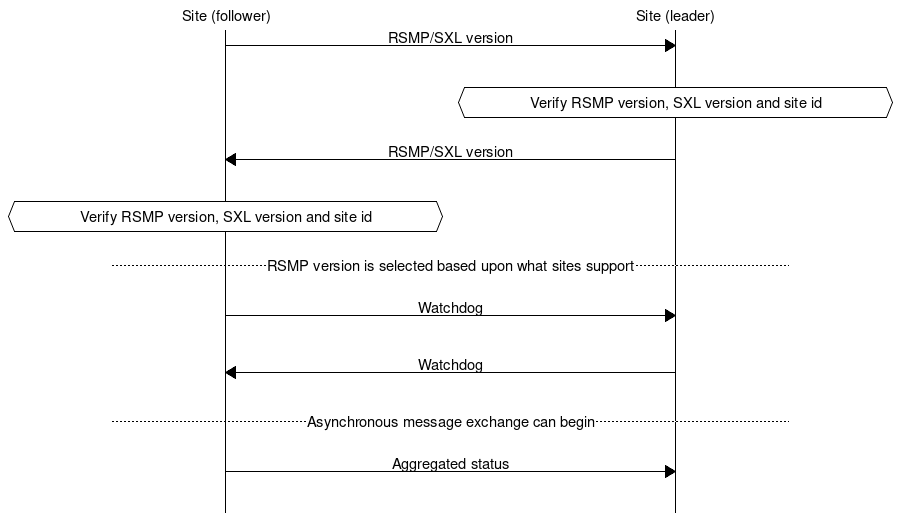
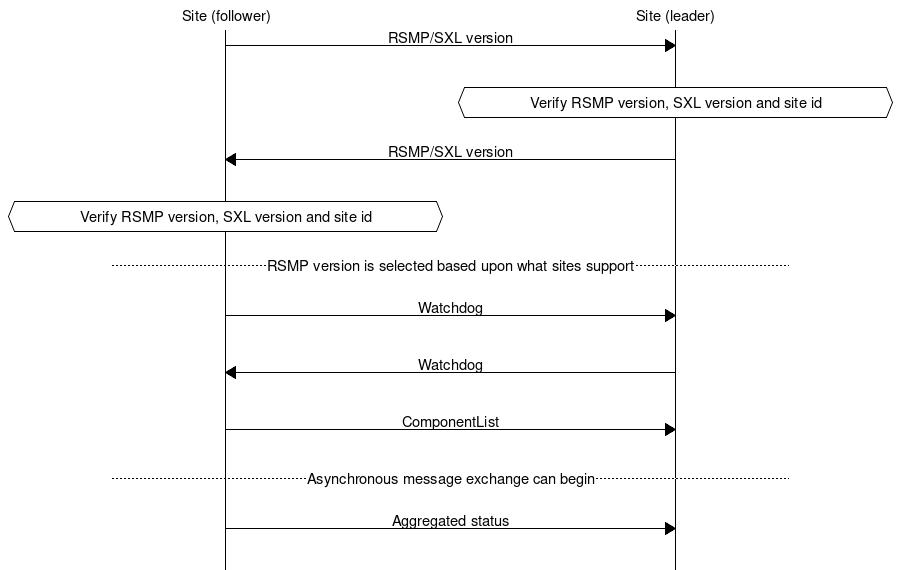
Update documentation

diff --git a/docs/3.3.0/applicability/transport_of_data.html b/docs/3.3.0/applicability/transport_of_data.html
@@ -296,6 +296,7 @@ RSMP/SXL Version is implicitly selected and used in any further RSMP
 communication.</p></li>
 <li><p>The follower site sends Watchdog (according to section <a class="reference internal" href="basic_structure.html#watchdog"><span class="std std-ref">Watchdog</span></a>)</p></li>
 <li><p>The leader site sends Watchdog (according to section <a class="reference internal" href="basic_structure.html#watchdog"><span class="std std-ref">Watchdog</span></a>)</p></li>
+<li><p>The follower site sends a ComponentList message (according to section <a class="reference internal" href="basic_structure.html#component-list"><span class="std std-ref">ComponentList</span></a>).</p></li>
 <li><p>Asynchronous message exchange can begin. This means that commands and
 statuses are allowed to be sent</p></li>
 <li><p>Aggregated status (according to section <a class="reference internal" href="basic_structure.html#aggregated-status-message"><span class="std std-ref">Aggregated status message</span></a>)
